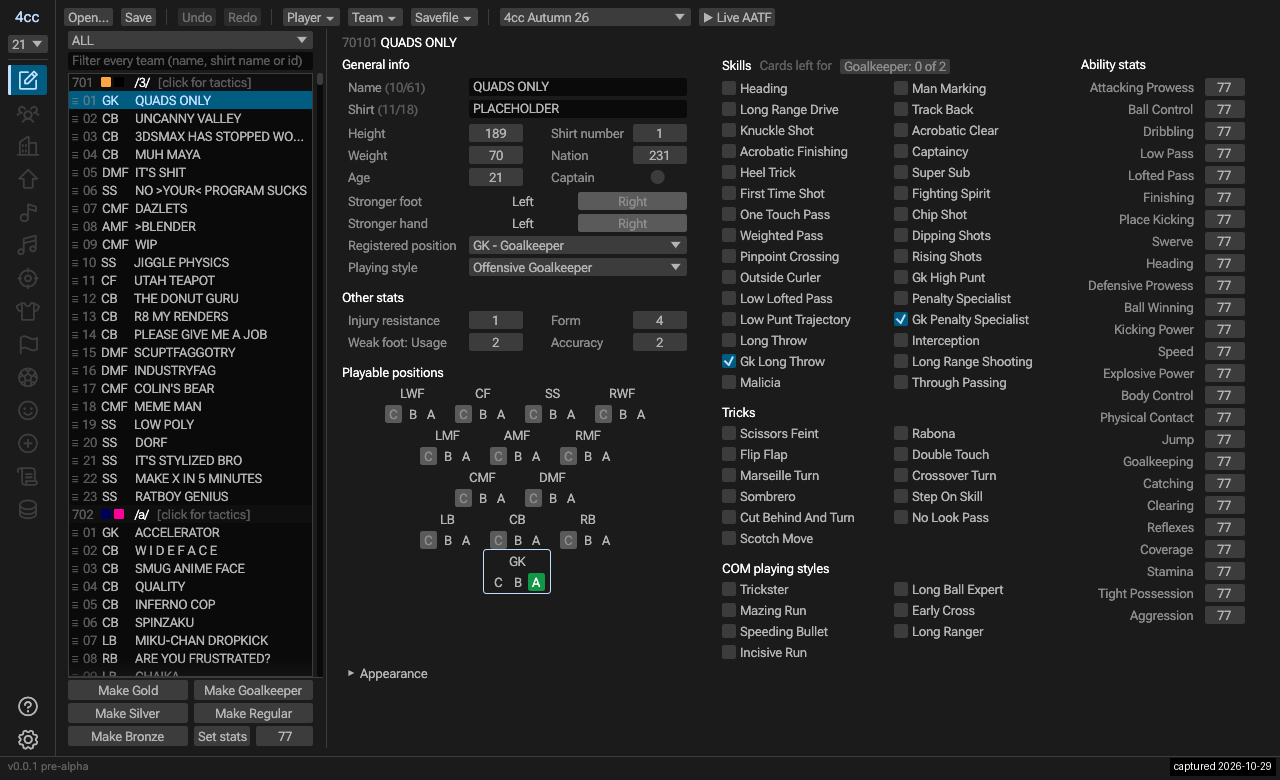
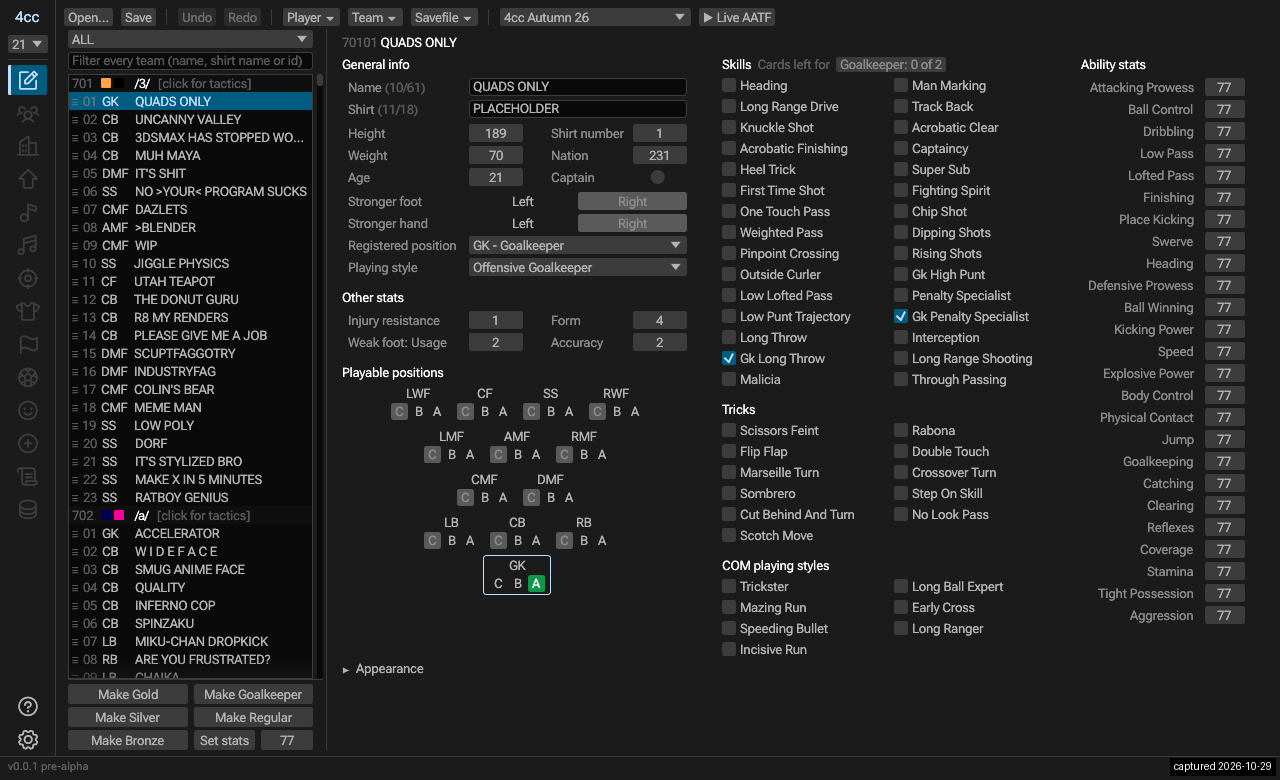
docs(save_editor): retake the Overlay's captures on 7b5cd5ed and open ov2z (the sidebar's rail)
The player and team captures from a release build after the green
checkpoint at 7b5cd5ed (ov2w to ov2y and ov11c in them). Its re-measure
finds both views at the draft's pixels but the known items, and the
sidebar's rail off: the top block 5 points high, the entries 1 point too
far apart, no line above Help (0.0.1ov2z).

diff --git a/docs/WORKLOG.md b/docs/WORKLOG.md
@@ -4664,7 +4664,20 @@ briefs, review loops, gates and mutation runs as for any step.
       0.5-point test, as the Goal named it. Left for the re-measure: the list frame's bottom
       679 for the draft's 680 (within 1), the player view's Ability stats ending at 1244.6
       for the draft's 1250.6 (its columns are centred between the list and the window's
-      edge, so the pane's margin does not move them)
+      edge, so the pane's margin does not move them). Re-measured 2026-10-29 on a release
+      build of `daed1a3d` (`rect_compare.py player|team`, tables
+      `.tmp/0_0_1ov/rects/{player,team}_daed.txt`; the Overlay's captures retaken): the
+      player and team views within 1 point, 2 where needed (the Tactics bars' choices' hit
+      boxes 18 tall for the draft's 20, their fill as drawn; Advanced instructions' "No
+      target" 2 high), but the known (checkbox hit areas, the toolbar's Open menu and Save as,
+      the ability labels' alignment); the Ability stats' boxes at the draft's pixels in the
+      built window (the 1244.6 was the headless probe's)
+    - [ ] ov2z the sidebar's rail against the draft, seen in the same re-measure (ink rows of
+      `.tmp/0_0_1ov/{draft,built}/team.png`, `.tmp/0_0_1ov/rail_rows.py`): the logo, the
+      version selector and the line under it 5 points high (logo ink 11 for the draft's 16),
+      the selector 40 wide for the draft's 44, the entries 33 apart for its 32, no line above
+      Help (the draft's at 681), Help and the gear 3 to 6 low. The rail's order differs by
+      design (ov1). Brief `.tmp/0_0_1ov/brief_ov2z.md`
     - [x] ov2x the player view and the text boxes against the draft, re-measured 2026-10-29
       (`rect_compare.py player`): every text box without the draft's 1-point border
       (`input[type=text]`: `border: 1px solid var(--stroke)`, radius 3; egui's resting text
